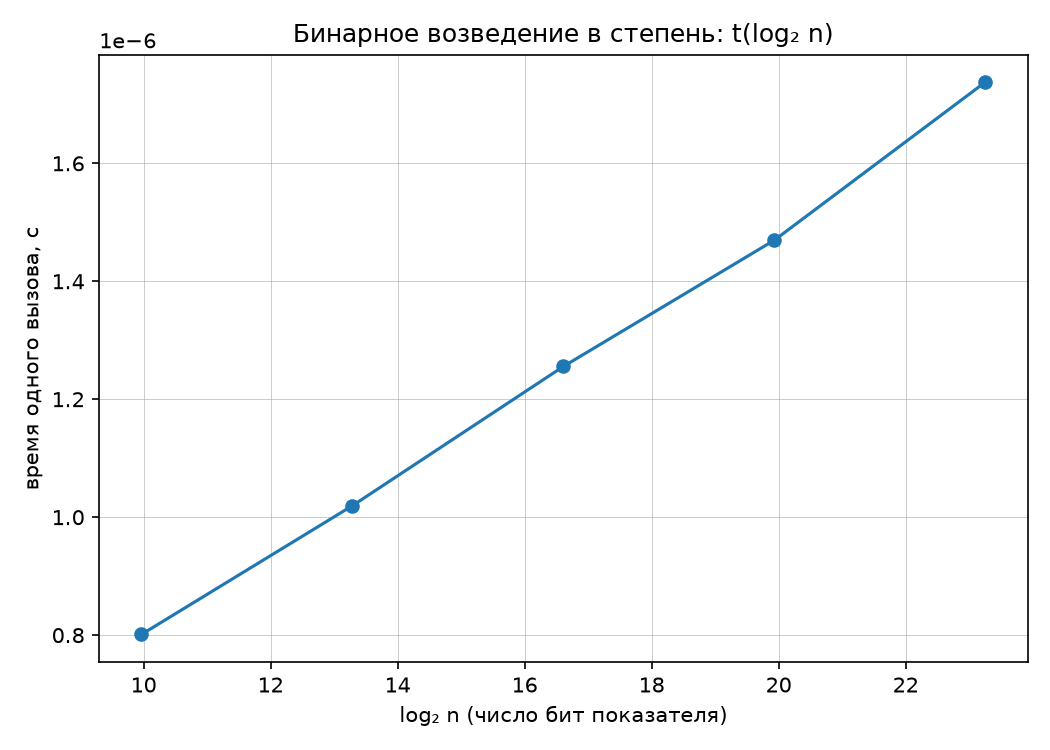
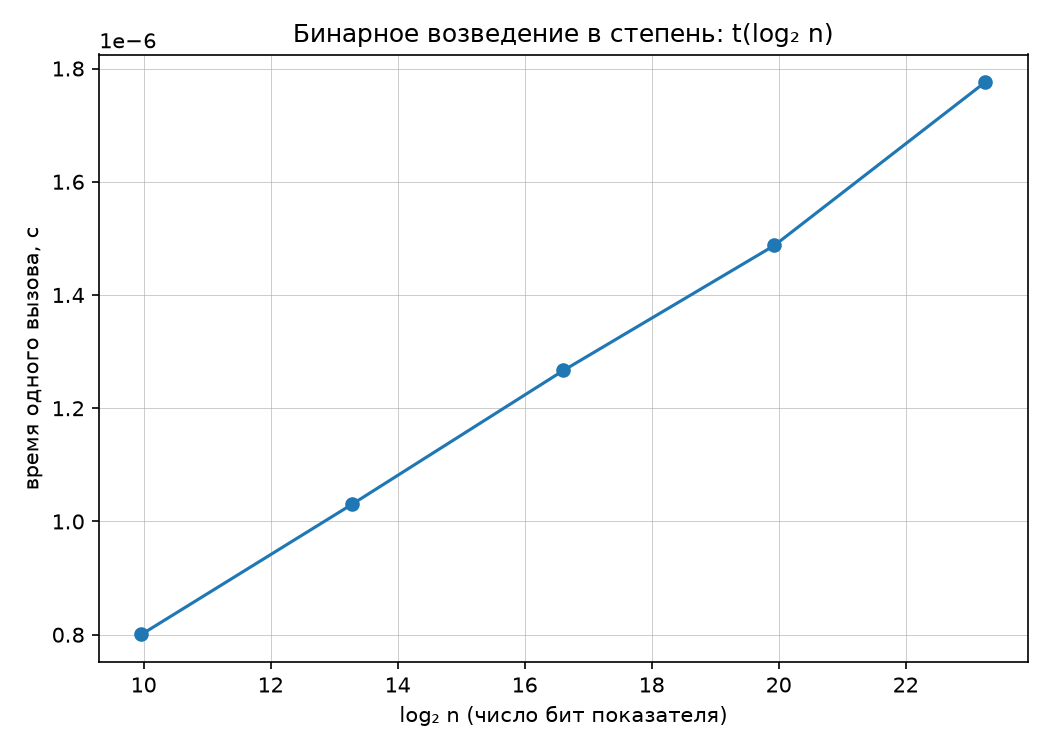
.
.

diff --git a/laba 1/main.py b/laba 1/main.py
@@ -317,6 +317,9 @@ def main() -> None:
 
     plot_results(results, args.out)
 
+# if __name__ == "__main__":
+#     self_check()
+
 
 if __name__ == "__main__":
     main()
